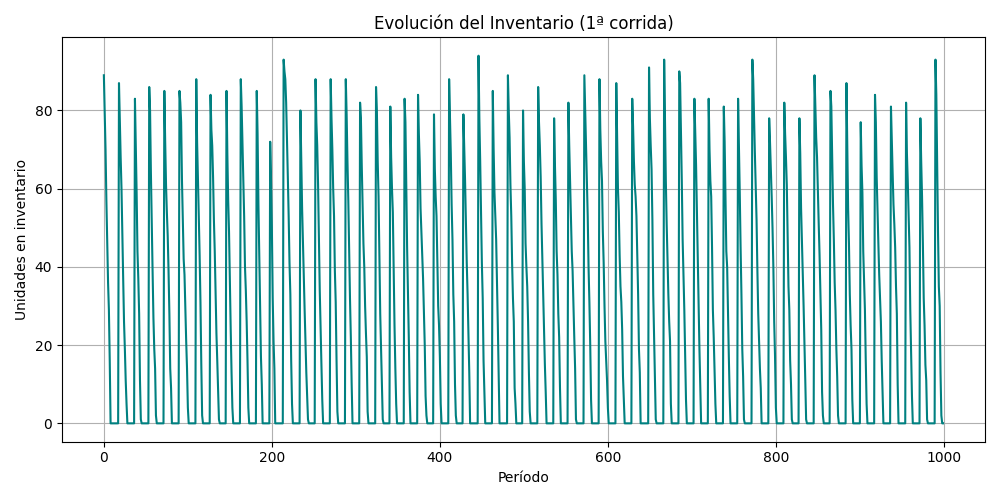
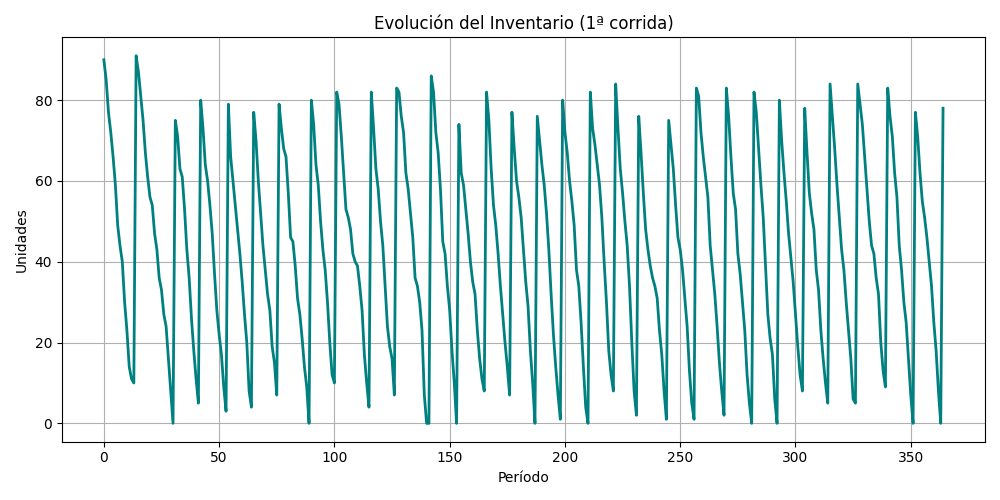
2da version de modelo de inventario

diff --git a/3/sim-modelo-inventario.py b/3/sim-modelo-inventario.py
@@ -2,171 +2,151 @@ import numpy as np
 import matplotlib.pyplot as plt
 import argparse
 import os
+from typing import List, Dict, Tuple
 
-def simular_inventario(s, S, demanda_media, tiempo_simulacion, costo_orden,
-                       costo_mantener, costo_faltante, lead_time):
-    """Simula una única corrida del modelo (s, S)."""
-    inventario = S  # Inventario inicial
-    orden_pendiente, tiempo_orden = None, None  # Pedido en tránsito
 
-    # Acumuladores de costos
-    costo_orden_total = 0
-    costo_mantener_total = 0
-    costo_faltante_total = 0
+def simular_inventario(
+    s: int, S: int, demanda_media: float, tiempo_simulacion: int,
+    costo_orden: float, costo_mantener: float, costo_faltante: float,
+    lead_time: int
+) -> Dict[str, float | List[int]]:
+    """
+    Simula una corrida del modelo de inventario (s, S) con demanda Poisson.
+    """
+    inventario = S
+    orden_pendiente, tiempo_orden = None, None
 
-    historial_inventario = []  # Para graficar
+    costos = {"orden": 0, "mantener": 0, "faltante": 0}
+    historial = []
 
     for t in range(tiempo_simulacion):
-        # 1) Comprobar llegada de la orden pendiente
         if orden_pendiente is not None and t == tiempo_orden:
             inventario += orden_pendiente
             orden_pendiente, tiempo_orden = None, None
 
-        # 2) Generar demanda de este período (Poisson)
         demanda = np.random.poisson(demanda_media)
         inventario -= demanda
 
-        # 3) Costos de faltantes, si la demanda > inventario
         if inventario < 0:
-            costo_faltante_total += abs(inventario) * costo_faltante
-            inventario = 0  # No permitimos inventario negativo
+            costos["faltante"] += abs(inventario) * costo_faltante
+            inventario = 0
 
-        # 4) Costos de mantenimiento por inventario remanente
-        costo_mantener_total += inventario * costo_mantener
+        costos["mantener"] += inventario * costo_mantener
 
-        # 5) Política de reposición (s, S)
         if inventario <= s and orden_pendiente is None:
-            cantidad_a_ordenar = S - inventario
-            orden_pendiente = cantidad_a_ordenar
+            cantidad = S - inventario
+            orden_pendiente = cantidad
             tiempo_orden = t + lead_time
-            costo_orden_total += costo_orden
+            costos["orden"] += costo_orden
 
-        # Guardar estado para la gráfica
-        historial_inventario.append(inventario)
+        historial.append(inventario)
 
-    # 6) Coste total de la corrida
-    costo_total = costo_orden_total + costo_mantener_total + costo_faltante_total
-
-    return {
-        "orden": costo_orden_total,
-        "mantener": costo_mantener_total,
-        "faltante": costo_faltante_total,
-        "total": costo_total,
-        "historial": historial_inventario,
-    }
+    costos["total"] = sum(costos.values())
+    costos["historial"] = historial
+    return costos
 
 
-def correr_experimentos(s, S, demanda_media, tiempo_simulacion, costo_orden,
-                        costo_mantener, costo_faltante, lead_time, corridas):
-    """Ejecuta varias corridas y devuelve promedios + lista completa."""
+def correr_experimentos(
+    s: int, S: int, demanda_media: float, tiempo_simulacion: int,
+    costo_orden: float, costo_mantener: float, costo_faltante: float,
+    lead_time: int, corridas: int
+) -> Tuple[Dict[str, float], List[Dict]]:
+
     resultados = [
-        simular_inventario(s, S, demanda_media, tiempo_simulacion, costo_orden,
-                           costo_mantener, costo_faltante, lead_time)
+        simular_inventario(s, S, demanda_media, tiempo_simulacion,
+                           costo_orden, costo_mantener, costo_faltante, lead_time)
         for _ in range(corridas)
     ]
 
     promedio = {
         k: np.mean([r[k] for r in resultados]) for k in ["orden", "mantener", "faltante", "total"]
     }
+
     return promedio, resultados
 
-# ---------- FUNCIONES DE GRÁFICA ----------
-
-def _asegurar_carpeta(path: str):
-    if not os.path.exists(path):
-        os.makedirs(path)
 
 
-def graficar_inventario(resultados):
-    """Gráfica la evolución del inventario de la PRIMERA corrida."""
-    _asegurar_carpeta("graficas/inventario")
+
+
+
+def graficar_inventario(historial: List[int]):
     plt.figure(figsize=(10, 5))
-    plt.plot(resultados[0]["historial"], color="teal")
+    plt.plot(historial, color="teal", linewidth=2)
     plt.title("Evolución del Inventario (1ª corrida)")
     plt.xlabel("Período")
-    plt.ylabel("Unidades en inventario")
+    plt.ylabel("Unidades")
     plt.grid(True)
     plt.tight_layout()
+    if not os.path.exists("graficas/inventario"):
+        os.makedirs("graficas/inventario")
     plt.savefig("graficas/inventario/evolucion_inventario.png")
     plt.close()
 
 
-def graficar_costos_promedio(promedio):
-    """Bar chart con el costo promedio de cada categoría."""
-    _asegurar_carpeta("graficas/costos")
+def graficar_costos_promedio(promedios: Dict[str, float]):
     categorias = ["orden", "mantener", "faltante"]
-    valores = [promedio[c] for c in categorias]
+    valores = [promedios[c] for c in categorias]
 
     plt.figure(figsize=(8, 5))
     plt.bar(categorias, valores, color=["orange", "steelblue", "crimson"])
-    plt.ylabel("Costo promedio")
-    plt.title("Costos promedio por categoría")
+    plt.title("Costo Promedio por Categoría")
+    plt.ylabel("Costo")
     plt.tight_layout()
-    if not os.path.exists("graficas/inventario"):
-        os.makedirs("graficas/inventario")
-    plt.savefig("graficas/inventario/costos_promedio.png")
+    if not os.path.exists("graficas/costos"):
+        os.makedirs("graficas/costos")
+    plt.savefig("graficas/costos/costos_promedio.png")
     plt.close()
 
 
-def graficar_costos_corridas(resultados):
-    """Line chart para comparar los costos de cada corrida."""
-    _asegurar_carpeta("graficas/inventario")
+def graficar_costos_por_corrida(resultados: List[Dict[str, float]]):
     corridas = range(len(resultados))
     for metrica, color in zip(["orden", "mantener", "faltante", "total"],
                               ["darkorange", "royalblue", "firebrick", "forestgreen"]):
         plt.figure(figsize=(10, 4))
         plt.plot(corridas, [r[metrica] for r in resultados], marker="o", color=color)
-        plt.title(f"{metrica.capitalize()} por corrida")
+        plt.title(f"{metrica.capitalize()} por Corrida")
         plt.xlabel("Corrida")
         plt.ylabel("Costo")
         plt.grid(True)
         plt.tight_layout()
-        plt.savefig(f"graficas/inventario/{metrica}_por_corrida.png")
+        if not os.path.exists("graficas/costos"):
+            os.makedirs("graficas/costos")
+        plt.savefig(f"graficas/costos/{metrica}_por_corrida.png")
         plt.close()
 
-# ---------- MAIN ----------
+
 
 def main():
-    parser = argparse.ArgumentParser(description="Simulación de Inventario (s, S)")
+    parser = argparse.ArgumentParser(description="Simulación del modelo de inventario (s, S)")
+
     parser.add_argument("--s", type=int, default=20, help="Punto de reorden (s)")
-    parser.add_argument("--S", type=int, default=80, help="Nivel máximo de inventario (S)")
-    parser.add_argument("--d", type=float, default=5.0, help="Demanda media (Poisson)")
-    parser.add_argument("--t", type=int, default=100, help="Tiempo de simulación (períodos)")
-    parser.add_argument("--co", type=float, default=50.0, help="Costo de orden")
-    parser.add_argument("--cm", type=float, default=1.0, help="Costo de mantenimiento por unidad")
+    parser.add_argument("--S", type=int, default=80, help="Nivel objetivo de inventario (S)")
+    parser.add_argument("--d", type=float, default=5.0, help="Demanda media")
+    parser.add_argument("--t", type=int, default=100, help="Períodos de simulación")
+    parser.add_argument("--co", type=float, default=50.0, help="Costo por orden")
+    parser.add_argument("--cm", type=float, default=1.0, help="Costo de mantenimiento")
     parser.add_argument("--cf", type=float, default=10.0, help="Costo por faltante")
-    parser.add_argument("--l", type=int, default=2, help="Lead time")
-    parser.add_argument("--c", type=int, default=10, help="Número de corridas")
+    parser.add_argument("--l", type=int, default=2, help="Lead time (períodos)")
+    parser.add_argument("--c", type=int, default=10, help="Cantidad de corridas")
 
     args = parser.parse_args()
 
+    if args.s > args.S:
+        raise ValueError("El valor de s no puede ser mayor que S")
+
     promedio, resultados = correr_experimentos(
-        s=args.s,
-        S=args.S,
-        demanda_media=args.d,
-        tiempo_simulacion=args.t,
-        costo_orden=args.co,
-        costo_mantener=args.cm,
-        costo_faltante=args.cf,
-        lead_time=args.l,
-        corridas=args.c,
+        args.s, args.S, args.d, args.t, args.co, args.cm, args.cf, args.l, args.c
     )
 
-    # Mostrar resultados en consola
-    print("\n--- Resultados Promediados ---")
-    print(f"Costo de orden: ${promedio['orden']:.2f}")
-    print(f"Costo de mantenimiento: ${promedio['mantener']:.2f}")
-    print(f"Costo por faltantes: ${promedio['faltante']:.2f}")
-    print(f"Costo total: ${promedio['total']:.2f}")
+    print("RESULTADOS PROMEDIO")
+    for clave, valor in promedio.items():
+        print(f"  {clave.capitalize():<10}: ${valor:.2f}")
 
-    # Generar todas las gráficas
-    graficar_inventario(resultados)
+    graficar_inventario(resultados[0]["historial"])
     graficar_costos_promedio(promedio)
-    graficar_costos_corridas(resultados)
+    graficar_costos_por_corrida(resultados)
 
 
 if __name__ == "__main__":
     main()
-
-
-# python3 sim-modelo-inventario.py --s 10 --S 100 --d 10 --t 1000 --co 30 --cm 4 --cf 20 --l 10 --c 10
+# python3 sim-modelo-inventario.py --s 20 --S 100 --d 7 --t 365 --co 100 --cm 0.2 --cf 5 --l 3 --c 30
